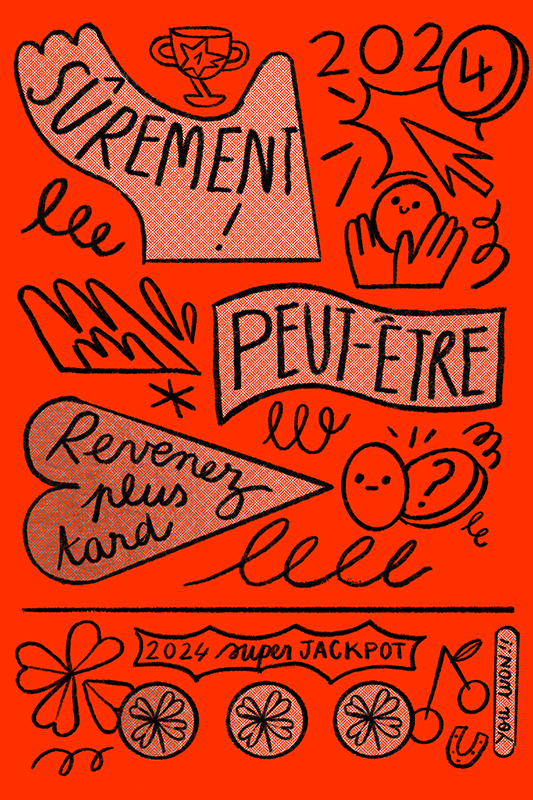
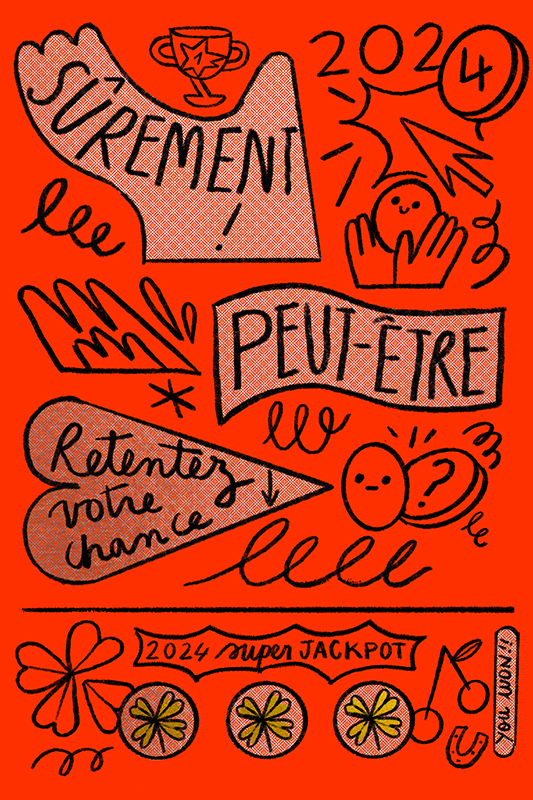
new

diff --git a/index.html b/index.html
@@ -24,17 +24,11 @@
             100% { opacity: 1; }
         }
 
+     
         p.blinking {
             animation: blink 0.3s infinite;
         }
 
-    .hero_h1 {
-    color: rgb(0, 0, 0);
-    position: absolute;
-    left: 0;
-    right: 0;
-    margin: 0 auto;
-}
 
       body {
         background: #FFF;
@@ -152,8 +146,7 @@
     <div class="hero_h1">
       <h1>QUE VOUS RÉSERVE 2024?</h1>
   </div>-->
-    <p class="blinking">QUE VOUS RÉSERVE 2024?</p>
-<p>Grattez avec votre curseur pour le découvrir</p>
+    <p class="blinking">QUE VOUS RÉSERVE 2024?</p><p>Grattez avec votre curseur pour le découvrir</p>
 
     <!--<br/>that can be erased
     using touch ou mouse moves.<br/><b>try by yourself below...</b></p> 
@@ -215,9 +208,6 @@
   <div class="frame">
 <br>
 <button onclick="window.location.href = 'https://evabarenton.com/';" class="custom-btn btn-1">evabarenton.com</button>
-
-
-  
     <button onclick="window.location.href = 'https://evabarenton.com/';" class="custom-btn btn-1"><a href = "mailto: evabarenton@gmail.com">Cliquez ici pour réclamer votre gain</button>
   
     </div>
